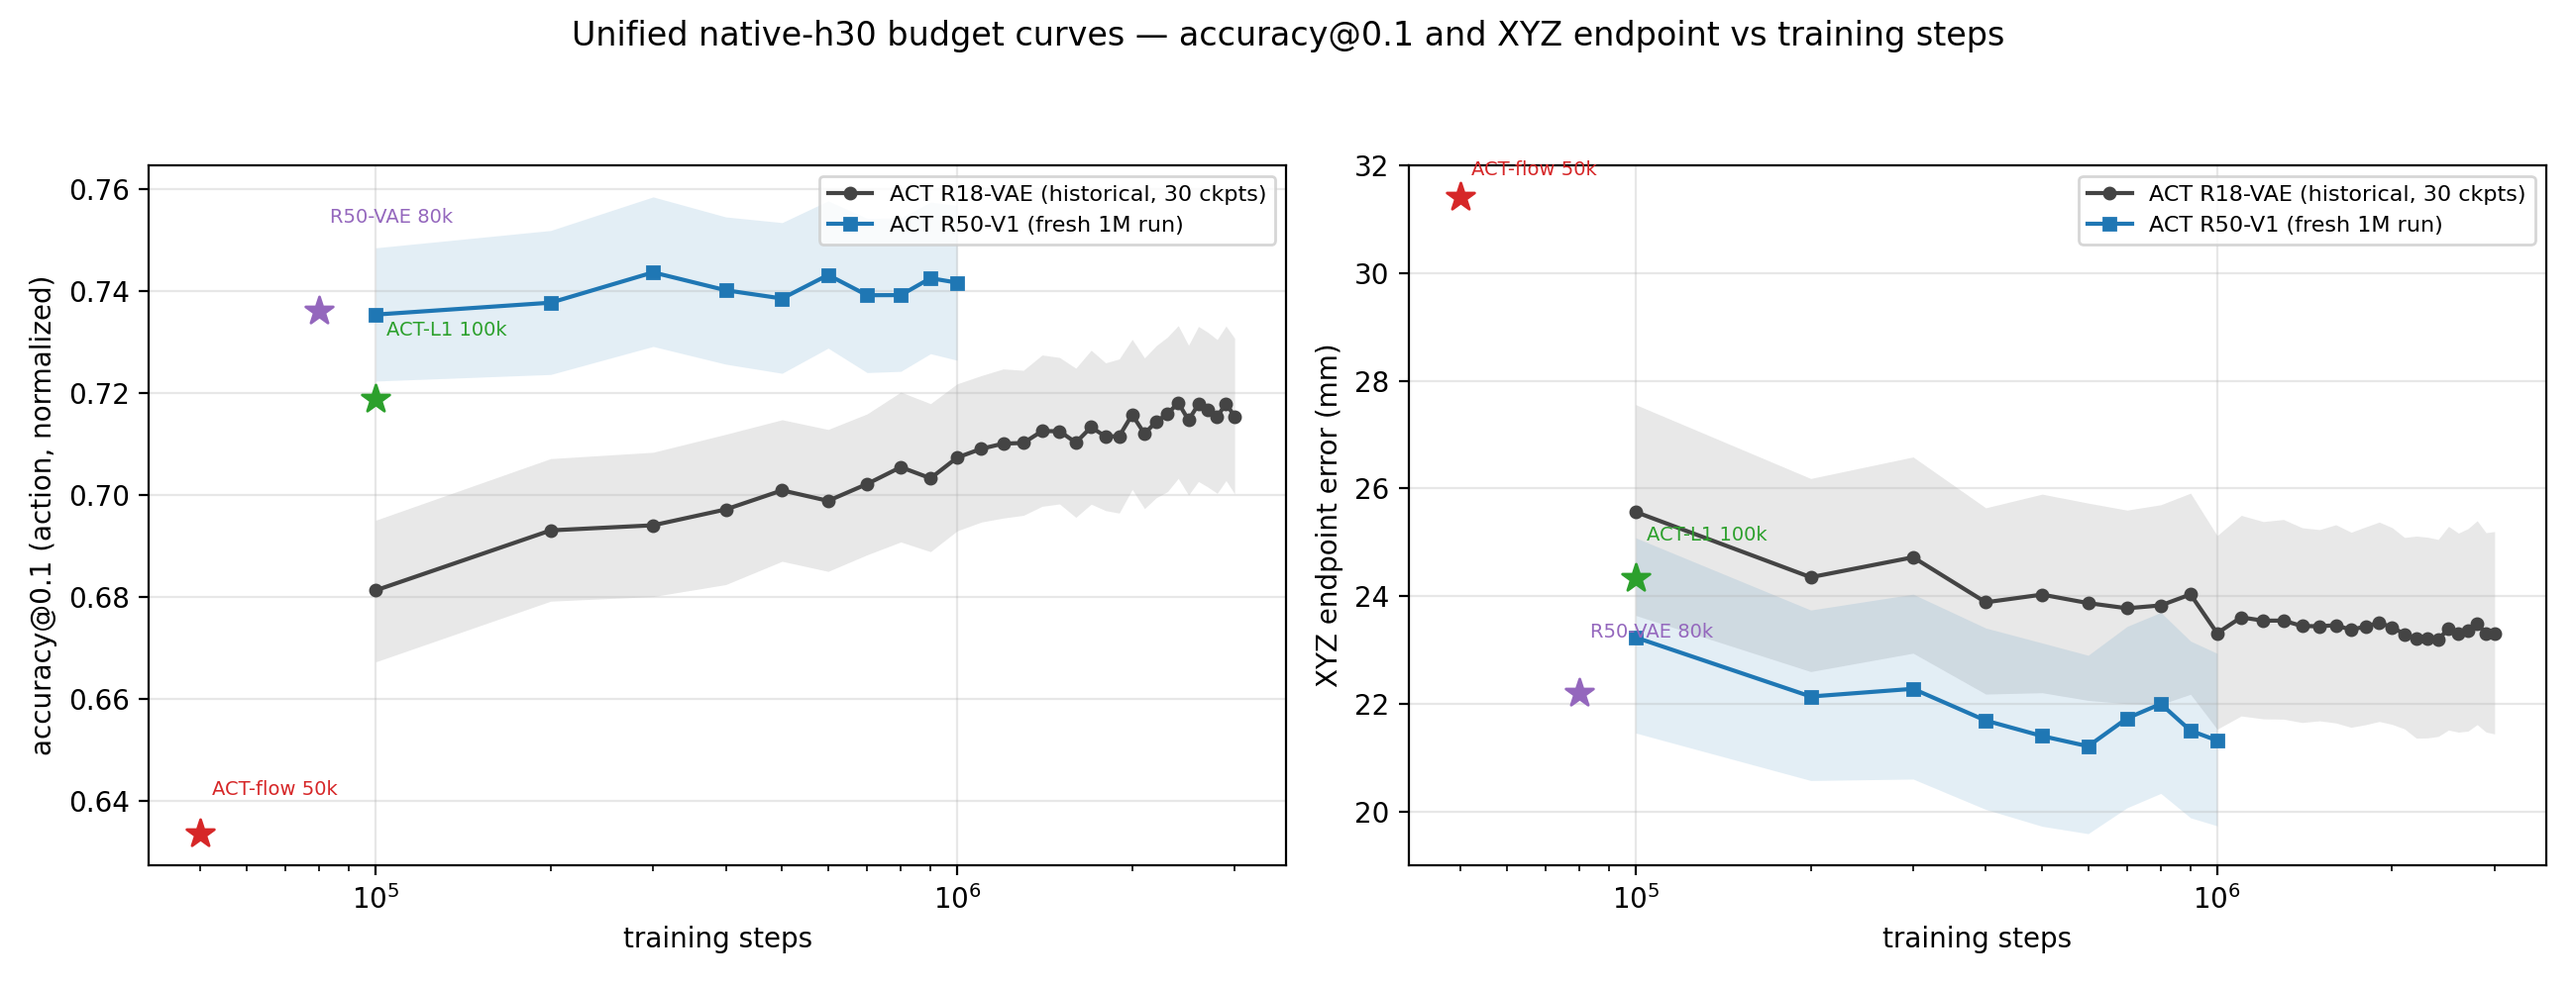
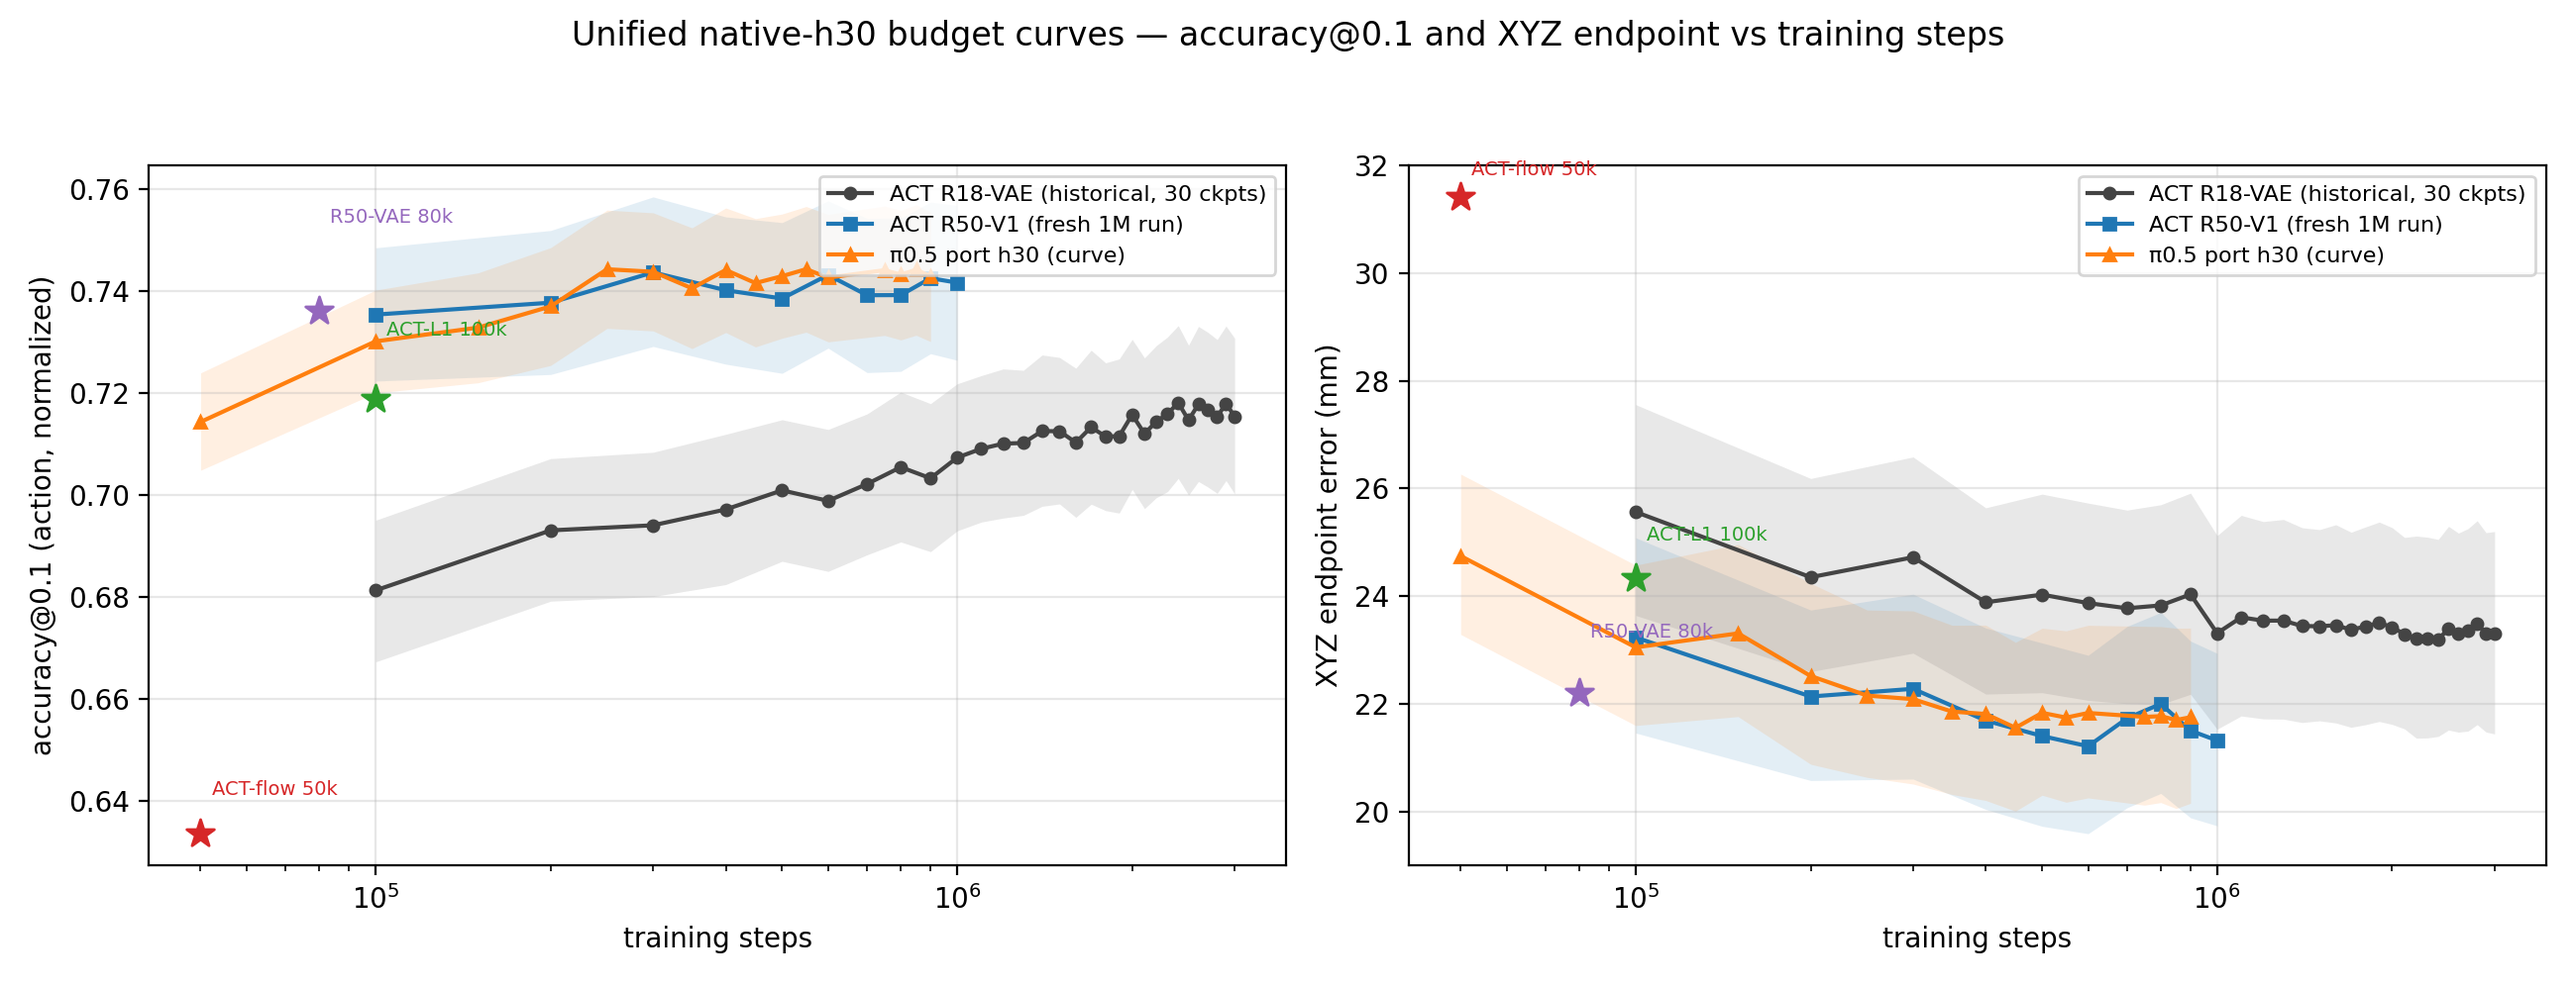
§9.2.11: π0.5-port h30 curve in (16 host pts) — ties R50-V1 at maturity
Splice 16 pi05_port_*_h30_v2 rows into the unified native-h30 table (62 of
87), regenerate all 4 figures, extend read-outs (port plateau 21.7–21.9 mm
from 350k, flat through 900k; CIs overlap R50-V1 everywhere; h10 early
sample-efficiency edge mostly a near-horizon artifact; jitter 0.073–0.091°).

diff --git a/examples/umi_relative_ee/act_flow_ablation/RESEARCH_REPORT.md b/examples/umi_relative_ee/act_flow_ablation/RESEARCH_REPORT.md
@@ -1872,11 +1872,11 @@ companions, and — new — the π0.5-port h30 curve (`pi05_port_<STEP>_h30_v2`
 runs; host front-run 50k–900k minus 650k/700k via
 `eval_pi05_curve_h30_host.sh`, kiwi K2 owns 650K/700K/1M).
 
-**Status: 46 rows complete (2026-08-19), 70 planned.** Pending: the
-π0.5-port h30 curve (48 host evals in flight as VRAM-gated backfill + 9
-kiwi evals at K2), the SmolVLA 1M full-width h30 curve (30 evals, chained
-after tonight's training exit), the kiwi masked-subspace 1M h30 curve (30
-evals, chained), and the SmolVLA notation ×3-seed re-evals at K3. Every
+**Status: 62 of 87 rows complete (2026-08-19); the π0.5-port h30 curve
+(16 host-front-run points, 50k–900k minus 650k/700k) is in.** Pending: the
+port 650K/700K/1M h30 rows (kiwi K2, in flight), the SmolVLA notation ×3
+seeds (K3, in flight), the SmolVLA 1M full-width h30 curve (chained after
+tonight's training exit), and the kiwi masked-subspace 1M h30 curve. Every
 admitted row passed the compiler's assertions — canonical bounds,
 full-chunk scoring, 500 queries/100 episodes, identical acc@τ scales
 (within-tree), and identical GT jerk (0.158° / 0.67 mm — the full-chunk
@@ -1930,12 +1930,29 @@ GT invariants, slightly different from the t+10 values as expected).
 | act_umi_identity_rot6d_1459_2800000steps | 2800000 | 23.49 [21.62, 25.40] | 4.47 [4.10, 4.85] | 7.69 | 162.0 | 1.310 | 4.24 | 0.974 | 0.715 [0.700, 0.731] | 0.050 |
 | act_umi_identity_rot6d_1459_2900000steps | 2900000 | 23.31 [21.48, 25.18] | 4.44 [4.07, 4.84] | 7.61 | 158.6 | 1.304 | 4.21 | 0.975 | 0.718 [0.703, 0.733] | 0.052 |
 | act_umi_identity_rot6d_1459_3000000steps | 3000000 | 23.31 [21.45, 25.20] | 4.50 [4.12, 4.89] | 7.66 | 160.1 | 1.320 | 4.30 | 0.974 | 0.715 [0.700, 0.731] | 0.054 |
+| pi05_port_0050000_h30_v2 | 50000 | 24.75 [23.29, 26.27] | 4.70 [4.45, 4.97] | 7.15 | 139.0 | 1.325 | 4.16 | 0.971 | 0.714 [0.705, 0.724] | 0.124 |
+| pi05_port_0100000_h30_v2 | 100000 | 23.05 [21.60, 24.58] | 4.43 [4.16, 4.71] | 6.76 | 123.8 | 1.254 | 3.70 | 0.977 | 0.730 [0.720, 0.740] | 0.170 |
+| pi05_port_0150000_h30_v2 | 150000 | 23.31 [21.77, 24.96] | 4.43 [4.13, 4.74] | 6.80 | 126.2 | 1.233 | 3.63 | 0.974 | 0.733 [0.722, 0.744] | 0.140 |
+| pi05_port_0200000_h30_v2 | 200000 | 22.52 [20.88, 24.24] | 4.34 [4.03, 4.64] | 6.61 | 121.9 | 1.207 | 3.54 | 0.975 | 0.737 [0.725, 0.749] | 0.086 |
+| pi05_port_0250000_h30_v2 | 250000 | 22.16 [20.64, 23.75] | 4.27 [3.98, 4.56] | 6.53 | 117.3 | 1.206 | 3.50 | 0.979 | 0.744 [0.733, 0.756] | 0.087 |
+| pi05_port_0300000_h30_v2 | 300000 | 22.09 [20.52, 23.73] | 4.27 [3.98, 4.58] | 6.56 | 120.7 | 1.183 | 3.42 | 0.975 | 0.744 [0.732, 0.755] | 0.131 |
+| pi05_port_0350000_h30_v2 | 350000 | 21.86 [20.32, 23.46] | 4.31 [3.99, 4.63] | 6.51 | 116.2 | 1.202 | 3.52 | 0.977 | 0.741 [0.729, 0.752] | 0.093 |
+| pi05_port_0400000_h30_v2 | 400000 | 21.82 [20.21, 23.47] | 4.27 [3.96, 4.59] | 6.44 | 115.7 | 1.189 | 3.45 | 0.974 | 0.744 [0.732, 0.756] | 0.083 |
+| pi05_port_0450000_h30_v2 | 450000 | 21.56 [20.01, 23.15] | 4.30 [3.98, 4.63] | 6.50 | 114.4 | 1.200 | 3.51 | 0.978 | 0.742 [0.729, 0.754] | 0.086 |
+| pi05_port_0500000_h30_v2 | 500000 | 21.84 [20.31, 23.41] | 4.33 [4.00, 4.66] | 6.49 | 116.2 | 1.206 | 3.56 | 0.975 | 0.743 [0.731, 0.755] | 0.089 |
+| pi05_port_0550000_h30_v2 | 550000 | 21.75 [20.18, 23.36] | 4.27 [3.95, 4.59] | 6.44 | 115.1 | 1.179 | 3.39 | 0.976 | 0.744 [0.732, 0.757] | 0.079 |
+| pi05_port_0600000_h30_v2 | 600000 | 21.83 [20.26, 23.46] | 4.30 [3.97, 4.63] | 6.49 | 116.5 | 1.195 | 3.49 | 0.975 | 0.743 [0.730, 0.755] | 0.087 |
+| pi05_port_0750000_h30_v2 | 750000 | 21.76 [20.12, 23.44] | 4.24 [3.92, 4.57] | 6.52 | 118.3 | 1.186 | 3.43 | 0.976 | 0.744 [0.731, 0.757] | 0.077 |
+| pi05_port_0800000_h30_v2 | 800000 | 21.78 [20.17, 23.44] | 4.27 [3.95, 4.60] | 6.50 | 117.0 | 1.187 | 3.44 | 0.976 | 0.743 [0.730, 0.756] | 0.081 |
+| pi05_port_0850000_h30_v2 | 850000 | 21.70 [20.06, 23.41] | 4.26 [3.93, 4.59] | 6.46 | 116.5 | 1.189 | 3.47 | 0.976 | 0.744 [0.731, 0.757] | 0.073 |
+| pi05_port_0900000_h30_v2 | 900000 | 21.76 [20.16, 23.41] | 4.28 [3.95, 4.61] | 6.50 | 116.8 | 1.193 | 3.48 | 0.976 | 0.743 [0.730, 0.756] | 0.091 |
 
 ![Unified native-h30 metrics across chunk-30 models](figures/unified_h30_metrics.png)
 
-![Unified native-h30 budget curves — historical R18-VAE (30 ckpts) and
-fresh R50-V1 (10 ckpts); the π0.5-port and SmolVLA 1M curves land as their
-sweeps complete](figures/unified_h30_budget.png)
+![Unified native-h30 budget curves — historical R18-VAE (30 ckpts),
+fresh R50-V1 (10 ckpts), and the π0.5-port h30 curve (16 points, plateau
+≈21.7–21.9 mm from 350k); SmolVLA 1M curves land as their chains
+finish](figures/unified_h30_budget.png)
 
 ![Unified native-h30 jitter — every run of the sweep, log scale, dashed =
 ground truth (0.158° / 0.67 mm)](figures/unified_h30_jitter.png)
@@ -1963,11 +1980,26 @@ Read-outs (extended as the pending rows land):
    rougher than every other family (rot-jerk 0.77–0.82° vs 0.03–0.08 for
    the ACT/VAE families); the VAE/L1 ACT families improve from ~0.06° at
    their early checkpoints to 0.03–0.05°, all well under the 0.158° GT.
-   The SmolVLA/openpi/port full-chunk jitter rows land with their sweeps.
+   The π0.5-port h30 curve lands at 0.073–0.091° — between the ACT families
+   and GT, mirroring its h10 position; the SmolVLA curves land with their
+   sweeps.
 4. **MSE:L1 tail ratio separates the objective families at t+30 too**
    (ACT-flow ≈ 24–27 µm/mm vs ≈19–20 for the VAE/L1 families) — the
    heavy-tail penalty of the unweighted flow objective grows with horizon,
    matching the §9.2.6 diagnosis.
+5. **The π0.5-port full-chunk curve ties R50-V1 at every mature budget**
+   (16 host points, 50k–900k minus 650k/700k which kiwi owns). The port
+   reaches its 21.7–21.9 mm / acc@0.1 0.741–0.744 plateau by ~350k and
+   stays flat through 900k — no overfitting, mirroring its h10 curve
+   (§9.2.9). Against R50-V1 over the same budgets the endpoint CIs overlap
+   everywhere (port 21.70–21.84 vs R50-V1 21.22–21.74 mm at ≥600k; acc@0.1
+   0.743 vs 0.742–0.743), so the h10 ACT-vs-port tie carries to t+30.
+   What does NOT carry is the early-budget sample-efficiency edge: at h30
+   port@100k is only 23.05 vs R50-V1's 23.24 mm — a 0.2 mm gap versus the
+   clear §9.2.5 h10 lead — i.e. most of the port's apparent h10 early
+   advantage is a near-horizon artifact; at full chunk the two families
+   learn at nearly the same rate. The port remains mid-pack on smoothness
+   (0.073–0.091° rot-jerk vs ACT's 0.03–0.05°).
 
 ### 9.3 Answers and promotion decision after stage one
 
